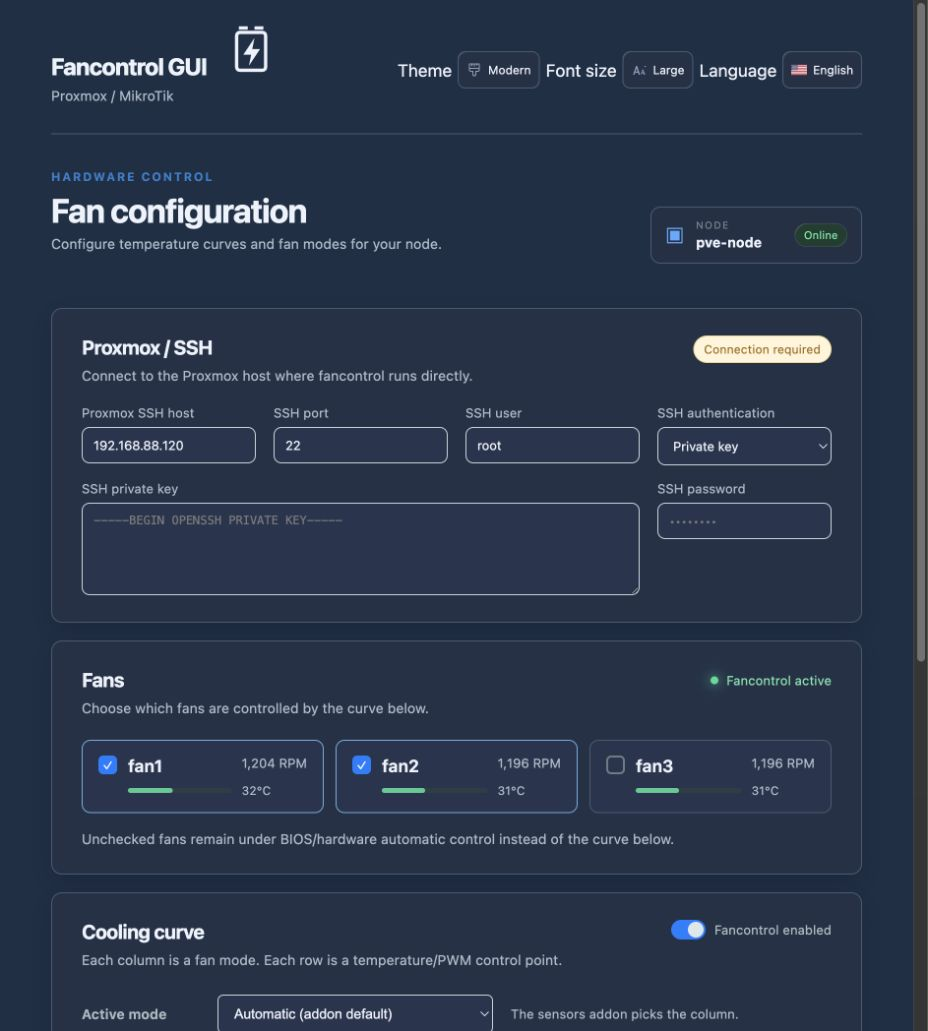
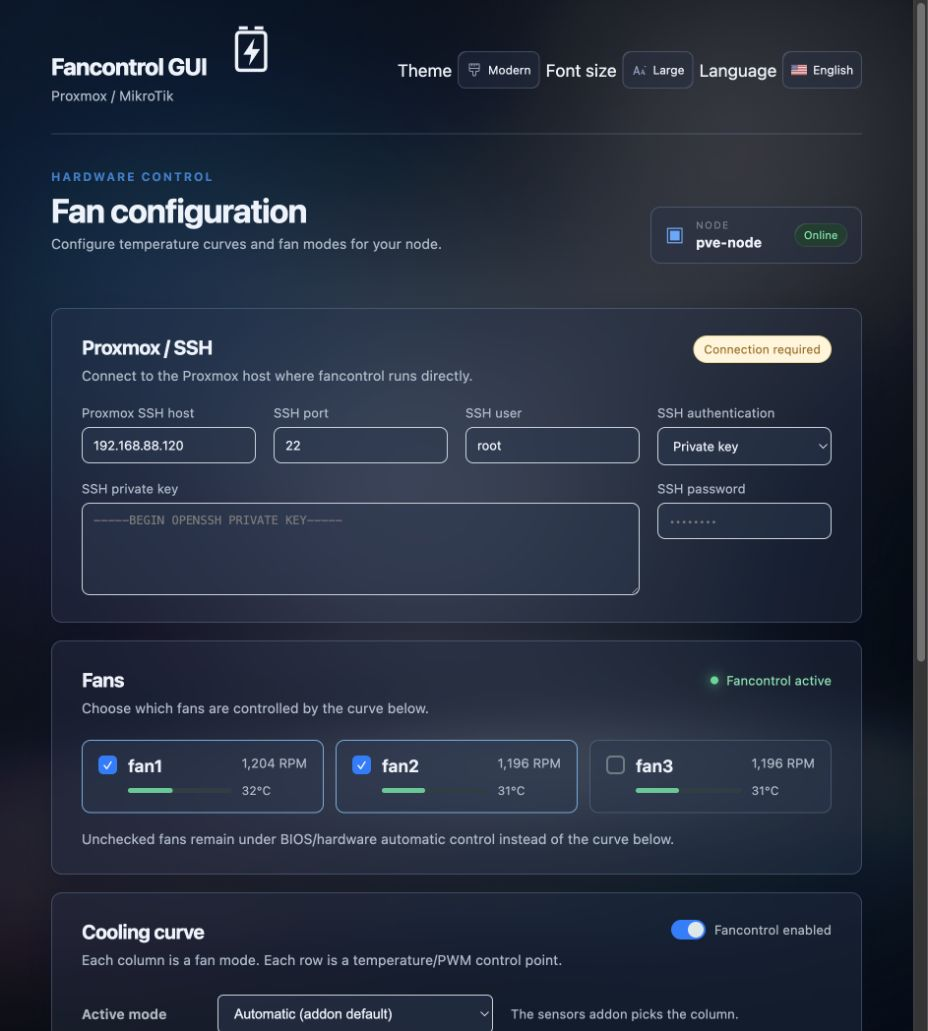
Restore Modern gradient background

diff --git a/styles.css b/styles.css
@@ -1,7 +1,7 @@
 :root{font-family:Inter,ui-sans-serif,system-ui,-apple-system,BlinkMacSystemFont,"Segoe UI",sans-serif;color:#e4e8eb;background:#0c1114;--border:#29373e;--muted:#9aa8af;--blue:#1677ff}*{box-sizing:border-box}body{margin:0;min-width:320px;background:radial-gradient(circle at 80% -20%,#17242b 0,#0c1114 38rem);letter-spacing:.01em}.app-shell{max-width:1440px;margin:auto;padding:0 54px 44px}.topbar{height:82px;border-bottom:1px solid var(--border);display:flex;align-items:center;justify-content:space-between}.brand{font-size:18px;font-weight:700;display:flex;align-items:center;gap:11px}.brand-mark{color:#3d9aff;font-size:32px;line-height:0;transform:rotate(90deg)}.connection,.mini-status{display:flex;align-items:center;gap:8px;color:#98a8b0;font-size:13px}.dot{width:8px;height:8px;background:#36d892;border-radius:50%;box-shadow:0 0 12px #36d892}.icon-btn{border:0;background:none;color:#82949d;font-size:19px;margin-left:14px}.hero{display:flex;justify-content:space-between;align-items:end;padding:48px 0 33px}.eyebrow{color:#5ba7ff;font-size:12px;text-transform:uppercase;letter-spacing:.16em;font-weight:700;margin:0 0 10px}h1,h2,p{margin:0}h1{font-size:34px;letter-spacing:-.03em}.subtitle,.section-heading p,.hint{color:var(--muted);font-size:14px;margin-top:9px}.node-card{display:flex;align-items:center;gap:12px;border:1px solid var(--border);background:#11191d;border-radius:10px;padding:12px 14px;min-width:215px}.node-icon{color:#58a5ff;font-size:22px}.node-card small{display:block;color:#6e8089;font-size:10px;letter-spacing:.14em}.node-card strong{font-size:14px}.status-pill{margin-left:auto;color:#5de7a4;background:#123427;border-radius:99px;padding:5px 9px;font-size:11px}.panel{border:1px solid var(--border);background:rgba(15,22,26,.82);border-radius:11px;padding:27px 30px;margin-bottom:18px}.section-heading{display:flex;align-items:flex-start;justify-content:space-between;gap:20px}h2{font-size:20px;letter-spacing:-.02em}.mini-status{padding-top:5px;color:#70e4aa}.fan-list{display:grid;grid-template-columns:repeat(3,1fr);gap:12px;margin-top:24px}.fan-card{position:relative;display:grid;grid-template-columns:20px 1fr auto;grid-template-areas:"check name rpm" "check bar temp";gap:8px 10px;border:1px solid #26353c;border-radius:9px;background:#11191d;padding:15px 16px;cursor:pointer}.fan-card:hover,.fan-card.selected{border-color:#397596}.fan-card input{position:absolute;opacity:0}.checkmark{grid-area:check;border:2px solid #65767e;width:19px;height:19px;border-radius:5px;color:transparent;text-align:center;font-size:12px;line-height:15px}.fan-card.selected .checkmark{background:#1677ff;border-color:#1677ff;color:white}.fan-name{grid-area:name;font-weight:650}.rpm{grid-area:rpm;color:#d3d9dc;font-size:13px}.fan-temp{grid-area:temp;color:#92a2a9;font-size:12px}.fan-bar{grid-area:bar;height:5px;background:#25343b;border-radius:99px;align-self:center}.fan-bar i{display:block;height:100%;border-radius:inherit;background:#43c78e}.hint{margin-top:18px}.curve-panel{padding-bottom:20px}.mode-row{display:grid;grid-template-columns:120px 280px 1fr;align-items:center;gap:18px;margin:27px 0 22px}.mode-label,.grid-head{color:#a8b6bc;font-size:14px;font-weight:650}.mode-row select,.pair input{appearance:auto;background:#111a1e;border:1px solid #3a4b54;color:#e0e5e8;border-radius:6px;padding:10px 12px;font-size:14px;outline:none}.mode-row select:focus,.pair input:focus{border-color:#3f9cff;box-shadow:0 0 0 2px #1677ff33}.mode-note{color:#82939b;font-size:13px}.curve-grid{border:1px solid #202e34;border-radius:8px;overflow:hidden}.grid-head,.curve-row{display:grid;grid-template-columns:1fr 1fr 1fr 1fr;align-items:center}.grid-head{padding:15px 19px;background:#11191d}.grid-head .full{color:#ffbd4f}.grid-head .cool{color:#4ca2ff}.grid-head .quiet{color:#45de91}.grid-head span:not(:first-child){text-align:center}.curve-row{padding:17px 19px;border-top:1px solid #202e34;min-height:94px}.curve-row:nth-child(odd){background:#11191d}.curve-row strong{font-size:14px;color:#aebbc0}.pair{display:grid;grid-template-columns:minmax(58px,100px) 25px;grid-template-rows:1fr 1fr;gap:9px 6px;justify-content:center}.pair input{width:100%;padding:8px 9px;text-align:right}.pair em{font-style:normal;color:#9aa8af;align-self:center;font-size:13px}.panel-footer{display:flex;justify-content:space-between;color:#8e9ca2;font-size:13px;padding-top:21px}.last-applied{color:#64747b}.last-applied b{color:#8ba0a8;font-weight:500}.switch-label{display:flex;gap:9px;align-items:center;color:#a9b8bd;font-size:13px}.switch-label input{display:none}.switch{width:35px;height:20px;background:#35505b;border-radius:99px;position:relative;cursor:pointer}.switch:after{content:"";position:absolute;width:16px;height:16px;border-radius:50%;background:#dbe7ea;left:2px;top:2px;transition:.2s}.switch-label input:checked+.switch{background:#1878ff}.switch-label input:checked+.switch:after{left:17px}.actions{display:flex;align-items:center;gap:12px;padding-top:6px}.actions-right{margin-left:auto;display:flex;align-items:center;gap:20px}.btn{border:0;border-radius:9px;color:white;font-size:15px;font-weight:650;padding:14px 20px;cursor:pointer;transition:filter .2s,transform .1s}.btn:hover{filter:brightness(1.14)}.btn:active{transform:translateY(1px)}.danger{background:#bd2d30}.warning{background:#b77a05}.primary{background:#1658c9;padding:14px 24px}.primary span{font-size:21px;margin-left:10px}.save-state{color:#5edb9c;font-size:13px}.toast{position:fixed;right:28px;bottom:28px;transform:translateY(20px);opacity:0;background:#18272d;border:1px solid #36525e;color:#e7eef0;padding:13px 17px;border-radius:8px;transition:.25s}.toast.show{transform:none;opacity:1}@media(max-width:800px){.app-shell{padding:0 18px 30px}.topbar{height:68px}.connection{font-size:0}.connection .icon-btn{font-size:18px}.hero{display:block;padding:34px 0 24px}.node-card{margin-top:20px}.panel{padding:21px 18px}.fan-list{grid-template-columns:1fr}.mode-row{grid-template-columns:1fr;gap:9px}.mode-row select{width:100%}.grid-head,.curve-row{grid-template-columns:82px repeat(3,1fr);padding-left:9px;padding-right:9px}.grid-head{font-size:11px}.curve-row{padding-top:14px;padding-bottom:14px}.curve-row strong{font-size:12px}.pair{grid-template-columns:minmax(36px,58px) 14px;gap:7px 3px}.pair input{padding:7px 4px;font-size:12px}.pair em{font-size:10px}.panel-footer{display:block;line-height:1.8}.last-applied{display:block}.section-heading{display:block}.mini-status,.switch-label{margin-top:16px}.actions{flex-wrap:wrap}.actions-right{width:100%;margin-left:0;justify-content:space-between}}
 /* App-specific layout; colors and shared controls come from mikrotik-ui-shared. */
-body.fancontrol-app{background:var(--bg,#f4f7fb);color:var(--text,#1d2733);padding:0;max-width:none}
-body.fancontrol-app{--bg:#15263d!important;--card:rgba(27,39,61,.88)!important;--card-strong:rgba(31,45,70,.92)!important;--text:#edf3fb!important;--muted:#aab8c8!important;--border:#40526b!important;--table-border:#34465e!important;--shadow:0 8px 24px rgba(5,12,24,.28)!important}
+body.fancontrol-app{background:linear-gradient(180deg,var(--overlay-dim),var(--overlay-dim)),radial-gradient(130% 120% at 0% 0%,var(--overlay-a),rgba(31,84,160,0) 54%),radial-gradient(120% 120% at 100% 100%,var(--overlay-b),rgba(23,62,126,0) 50%),var(--wallpaper-url) center/cover no-repeat fixed,var(--bg);color:var(--text,#1d2733);padding:0;max-width:none}
+body.fancontrol-app{--bg:#15263d!important;--card:rgba(27,39,61,.42)!important;--card-strong:rgba(31,45,70,.52)!important;--text:#edf3fb!important;--muted:#aab8c8!important;--border:rgba(140,168,207,.28)!important;--table-border:rgba(103,131,171,.38)!important;--shadow:0 14px 30px rgba(4,10,20,.36)!important}
 body.fancontrol-app .app-shell{max-width:1340px;margin:0 auto;padding:0 52px 42px}
 body.fancontrol-app .topbar{height:auto;min-height:94px;border-bottom:1px solid var(--border,#d8e0e8);padding:25px 0 18px}
 body.fancontrol-app .hero{padding:36px 0 27px}
